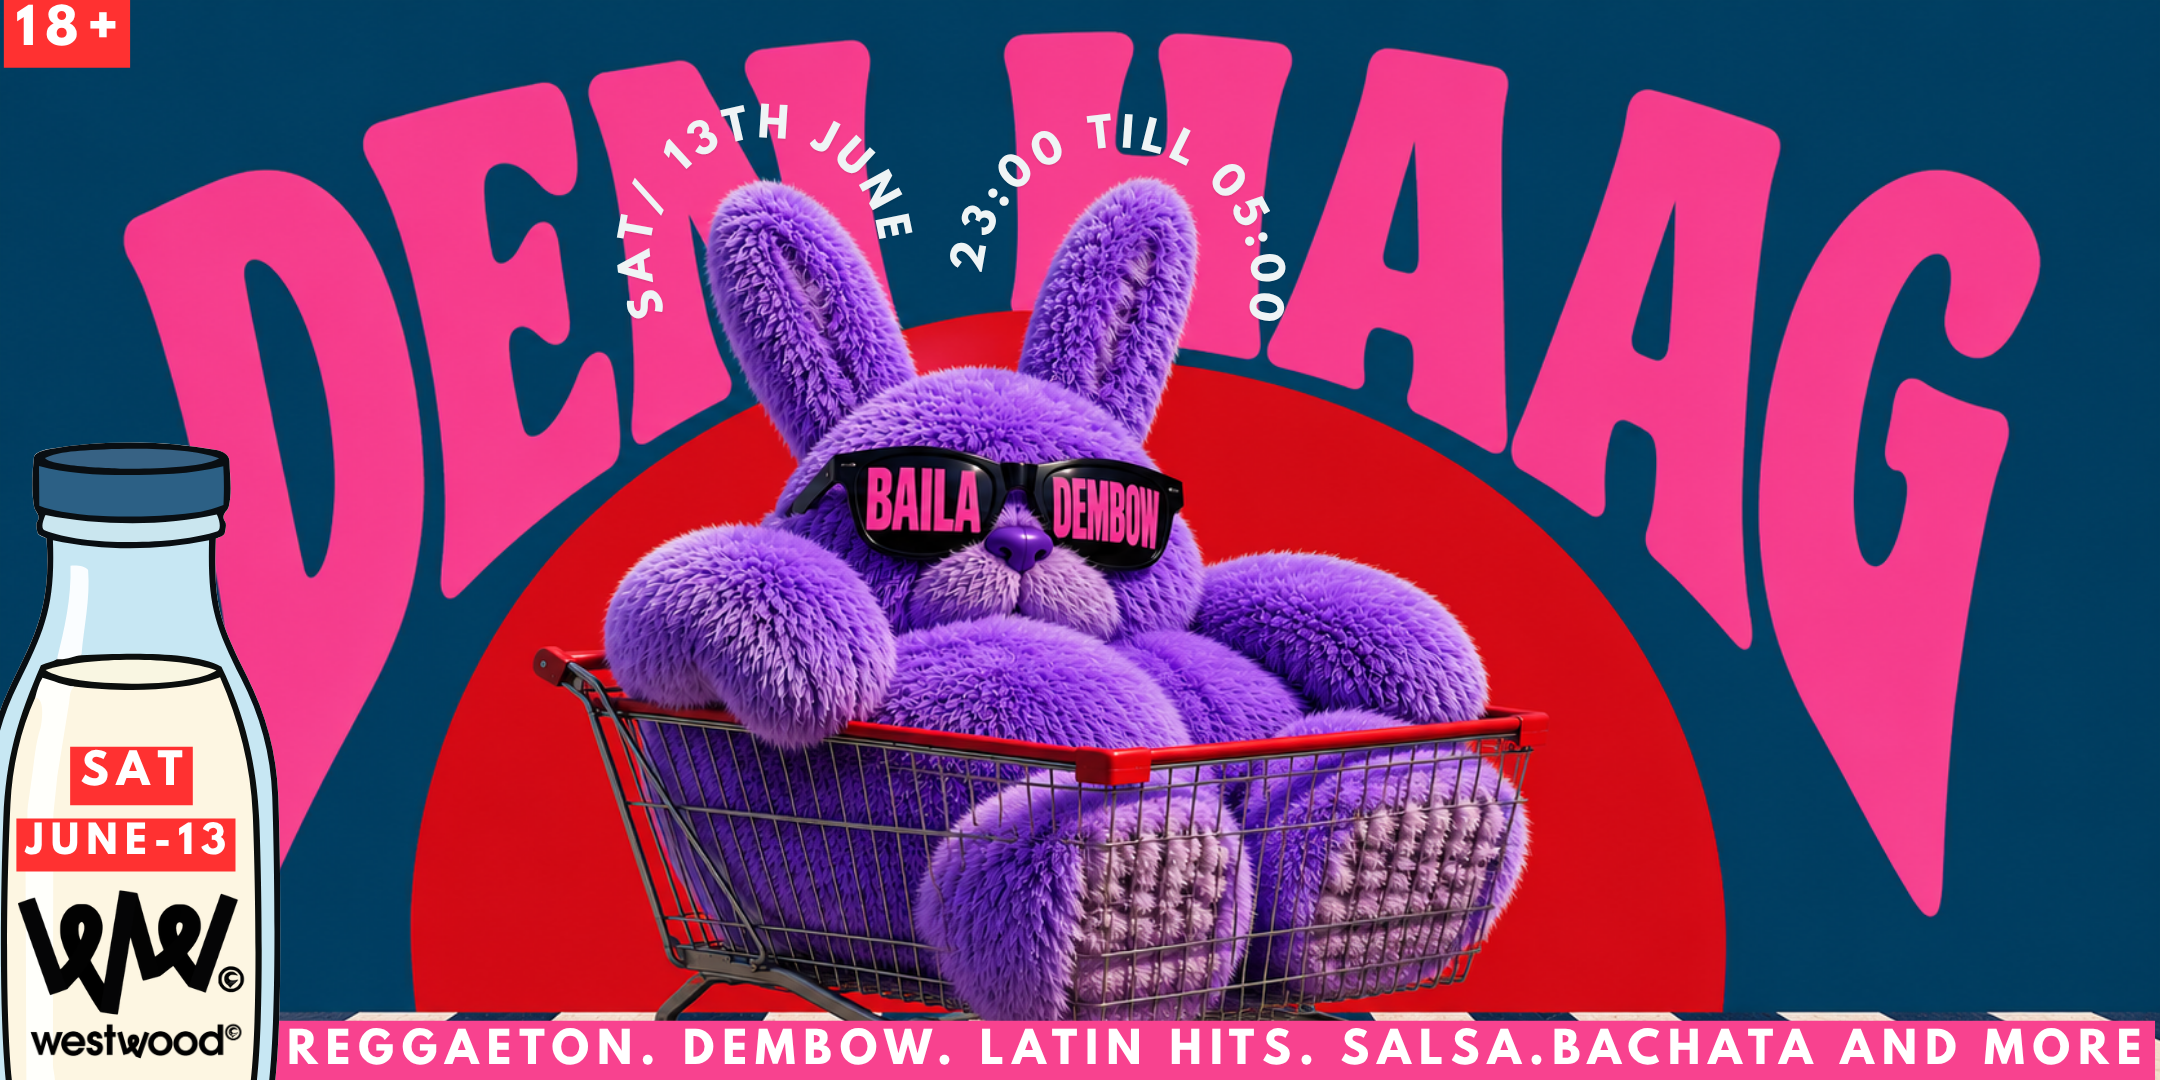
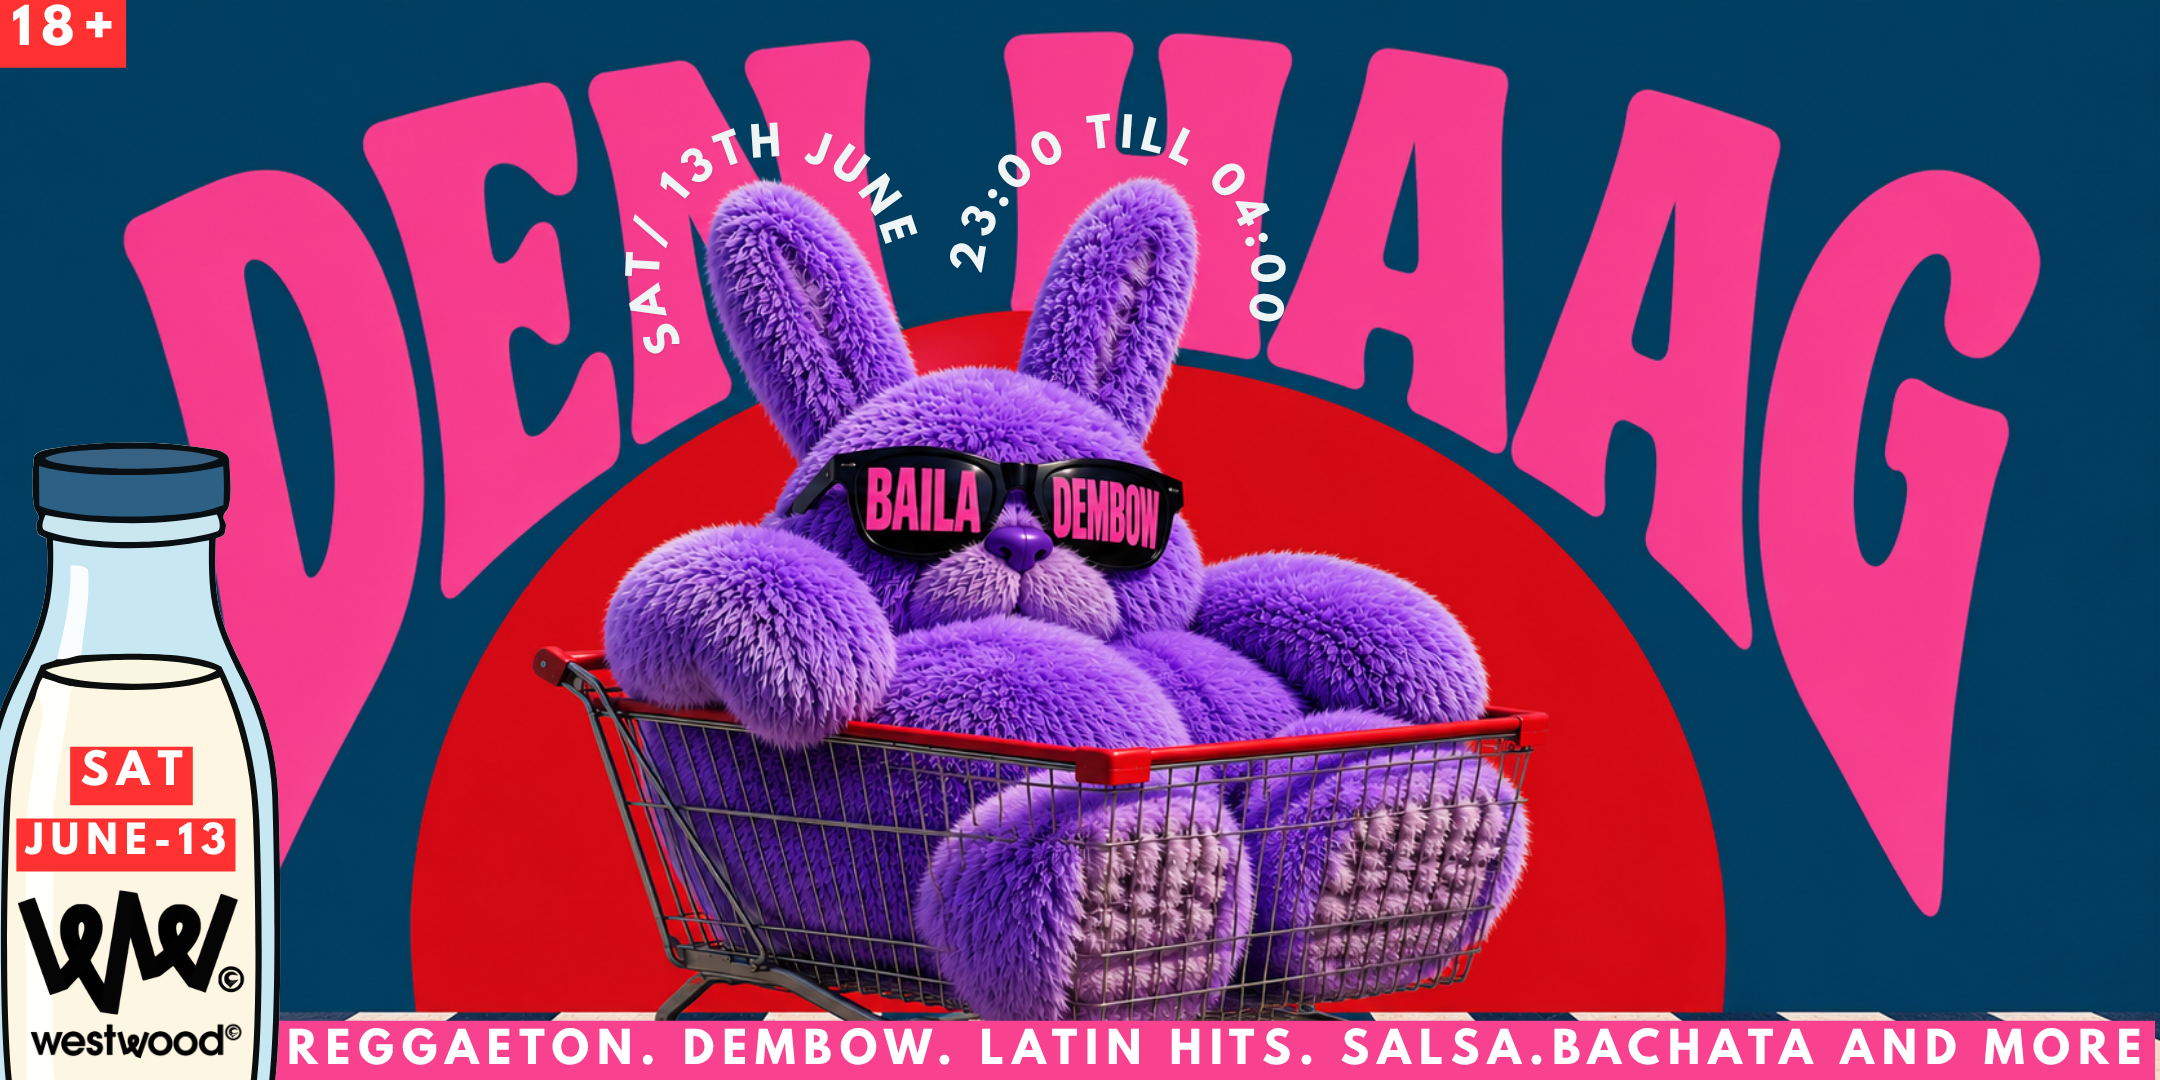
Den Haag: correct end time 05:00 → 04:00
Updated event time everywhere so the page, event listings, and rich
results all agree with the new flyer.

  - constants.js — `time` field: "23:00 – 05:00" → "23:00 – 04:00"
  - constants.js — description body: two stale "05:00" mentions
    swapped (the inline ⏰ Time line and the "Six full hours" → "Five
    full hours" framing line, since 23:00–04:00 is now five hours).
  - index.html MusicEvent JSON-LD — endDate
    "2026-06-14T05:00:00+02:00" → "2026-06-14T04:00:00+02:00", plus
    the matching description string ("Six hours" → "Five hours",
    "23:00–05:00" → "23:00–04:00").
  - public/images/events/den-haag-westwood-june13-2026.png replaced
    with the updated flyer (purple bunny in cart, "SAT/13TH JUNE ·
    23:00 TILL 04:00"). Same filename so no JSX changes needed.

Changed region(s): [[0.2792, 0.0917, 0.4343, 0.3361], [0.0, 0.0, 0.062, 0.0611], [0.5583, 0.1833, 0.5894, 0.2139]]

diff --git a/frontend/src/utils/constants.js b/frontend/src/utils/constants.js
@@ -75,9 +75,9 @@ export const EVENTS = [
     city: "Den Haag",
     venue: "Westwood, Laan van Poot 7, 2566 EV Den Haag",
     date: "2026-06-13",
-    time: "23:00 – 05:00",
+    time: "23:00 – 04:00",
     title: "BAILA DEMBOW // DEN HAAG",
-    description: "¡KLK DEN HAAG, LLEGAMOS! History is about to be made. Saturday, June 13th, Baila Dembow lands in Den Haag for the very first time, and we're doing it big at Westwood. After years of taking over Amsterdam, Rotterdam, Leiden and London, the bunny is finally coming to your city, and trust us when we say this one is going to hit different. Six full hours of reggaeton, dembow, salsa, bachata, and every Latin Caribbean hit that makes the floor shake. Bad Bunny, Karol G, El Alfa, Rauw Alejandro, Daddy Yankee, Anuel AA, all night, no breaks, pure perreo from the first track to the last. For the Dominicans, Colombians, Mexicans, Venezuelans, Puerto Ricans who've been waiting for your sound in your city, no more trains to Amsterdam. For the international students and expats who miss home, this is it. For the Dutch crowd ready to see what's been shaking Latin America, welcome to the party. Westwood becomes Santo Domingo, Medellín and San Juan all in one night. Tickets are already moving fast and early bird is always the smart move. The closer we get to the door, the more you pay, so don't sleep on this one. First Den Haag edition means limited capacity and once we're sold out, we're sold out. 📍 Location: Westwood, Laan van Poot 7, 2566 EV Den Haag · 🗓 Date: Saturday, June 13, 2026 · ⏰ Time: 23:00 till 05:00 · 🔞 18+ event, ID required. Don't miss the night Den Haag finally gets put on the map. See you on the floor. 🐰🔥",
+    description: "¡KLK DEN HAAG, LLEGAMOS! History is about to be made. Saturday, June 13th, Baila Dembow lands in Den Haag for the very first time, and we're doing it big at Westwood. After years of taking over Amsterdam, Rotterdam, Leiden and London, the bunny is finally coming to your city, and trust us when we say this one is going to hit different. Five full hours of reggaeton, dembow, salsa, bachata, and every Latin Caribbean hit that makes the floor shake. Bad Bunny, Karol G, El Alfa, Rauw Alejandro, Daddy Yankee, Anuel AA, all night, no breaks, pure perreo from the first track to the last. For the Dominicans, Colombians, Mexicans, Venezuelans, Puerto Ricans who've been waiting for your sound in your city, no more trains to Amsterdam. For the international students and expats who miss home, this is it. For the Dutch crowd ready to see what's been shaking Latin America, welcome to the party. Westwood becomes Santo Domingo, Medellín and San Juan all in one night. Tickets are already moving fast and early bird is always the smart move. The closer we get to the door, the more you pay, so don't sleep on this one. First Den Haag edition means limited capacity and once we're sold out, we're sold out. 📍 Location: Westwood, Laan van Poot 7, 2566 EV Den Haag · 🗓 Date: Saturday, June 13, 2026 · ⏰ Time: 23:00 till 04:00 · 🔞 18+ event, ID required. Don't miss the night Den Haag finally gets put on the map. See you on the floor. 🐰🔥",
     ticket_url: "https://weeztix.shop/z9xgcjv6",
     status: "upcoming",
     price_from: "",

diff --git a/frontend/public/index.html b/frontend/public/index.html
@@ -224,10 +224,10 @@
       "@context": "https://schema.org",
       "@type": "MusicEvent",
       "name": "Baila Dembow Den Haag — Latin Event at Westwood",
-      "description": "¡KLK DEN HAAG, LLEGAMOS! Baila Dembow's first-ever Den Haag edition at Westwood. Six hours of Reggaeton, Dembow, Salsa, Bachata and Latin Caribbean hits. Saturday June 13, 2026, 23:00–05:00. The biggest Latin Event in Den Haag.",
+      "description": "¡KLK DEN HAAG, LLEGAMOS! Baila Dembow's first-ever Den Haag edition at Westwood. Five hours of Reggaeton, Dembow, Salsa, Bachata and Latin Caribbean hits. Saturday June 13, 2026, 23:00–04:00. The biggest Latin Event in Den Haag.",
       "image": "https://bailadembow.com/images/events/den-haag-westwood-june13-2026.png",
       "startDate": "2026-06-13T23:00:00+02:00",
-      "endDate": "2026-06-14T05:00:00+02:00",
+      "endDate": "2026-06-14T04:00:00+02:00",
       "eventStatus": "https://schema.org/EventScheduled",
       "eventAttendanceMode": "https://schema.org/OfflineEventAttendanceMode",
       "location": {
